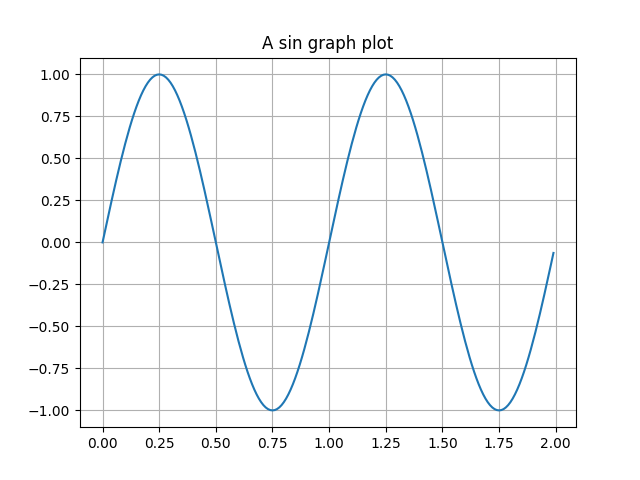
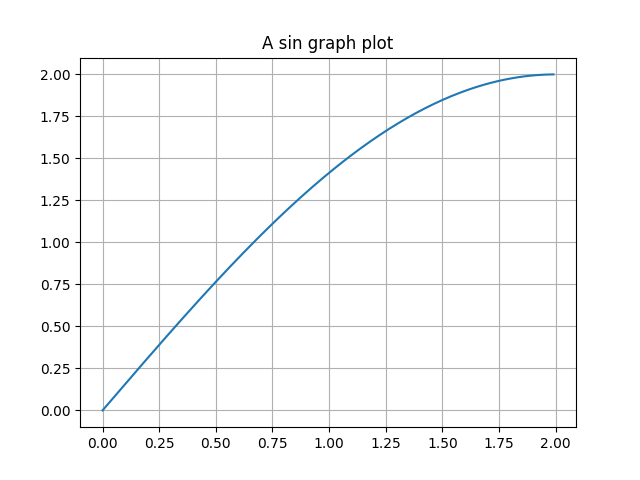
Add files via upload

diff --git a/Solutions/rahulkumaran/Task4/sin.py b/Solutions/rahulkumaran/Task4/sin.py
@@ -2,7 +2,7 @@ import matplotlib.pyplot as plt
 import numpy as np
 
 xRange = np.arange(0.0,2.0,0.01)
-sinGraph = np.sin(2*np.pi*xRange)
+sinGraph = 2*np.sin((np.pi/4)*xRange)
 
 plt.plot(xRange,sinGraph)
 
